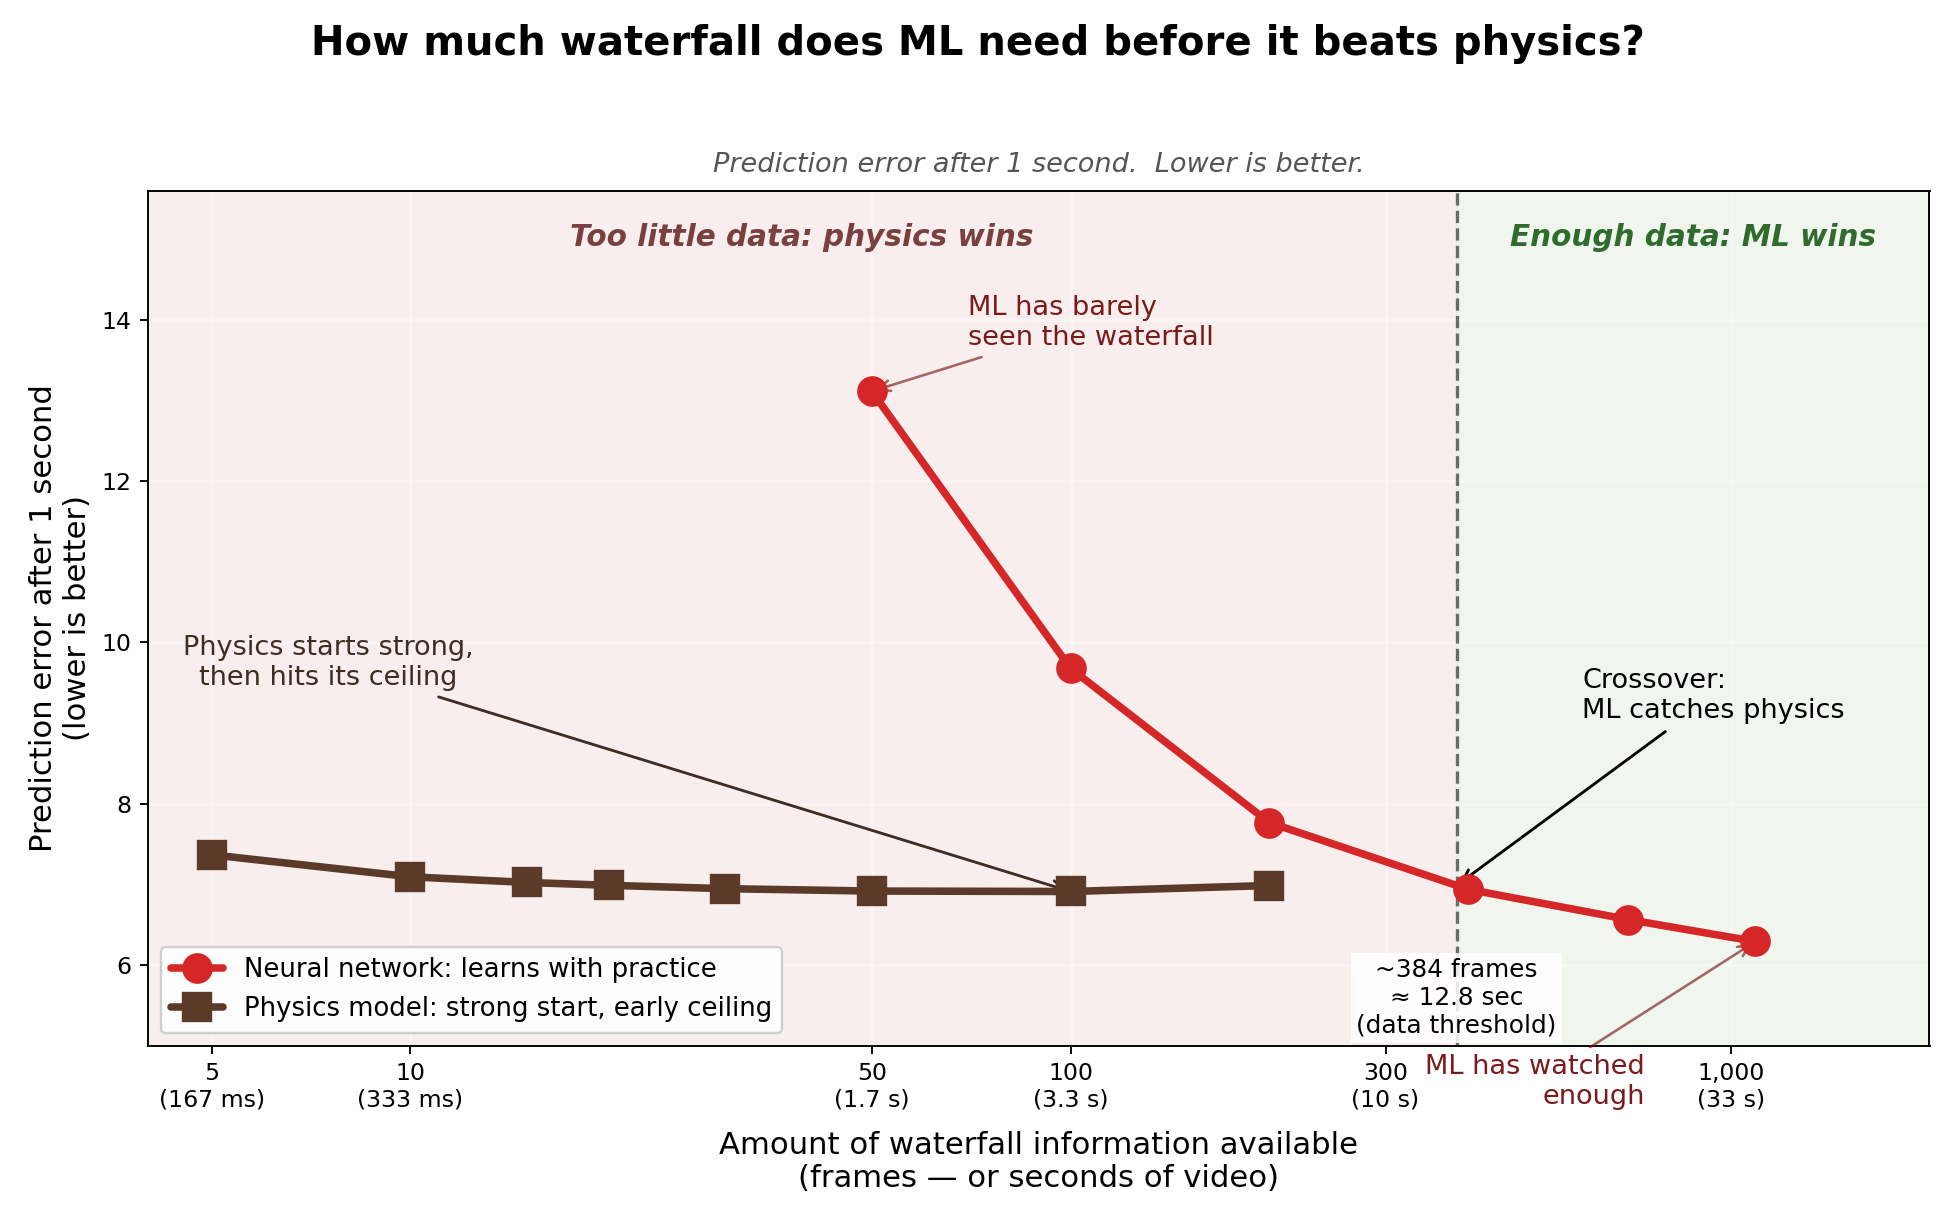
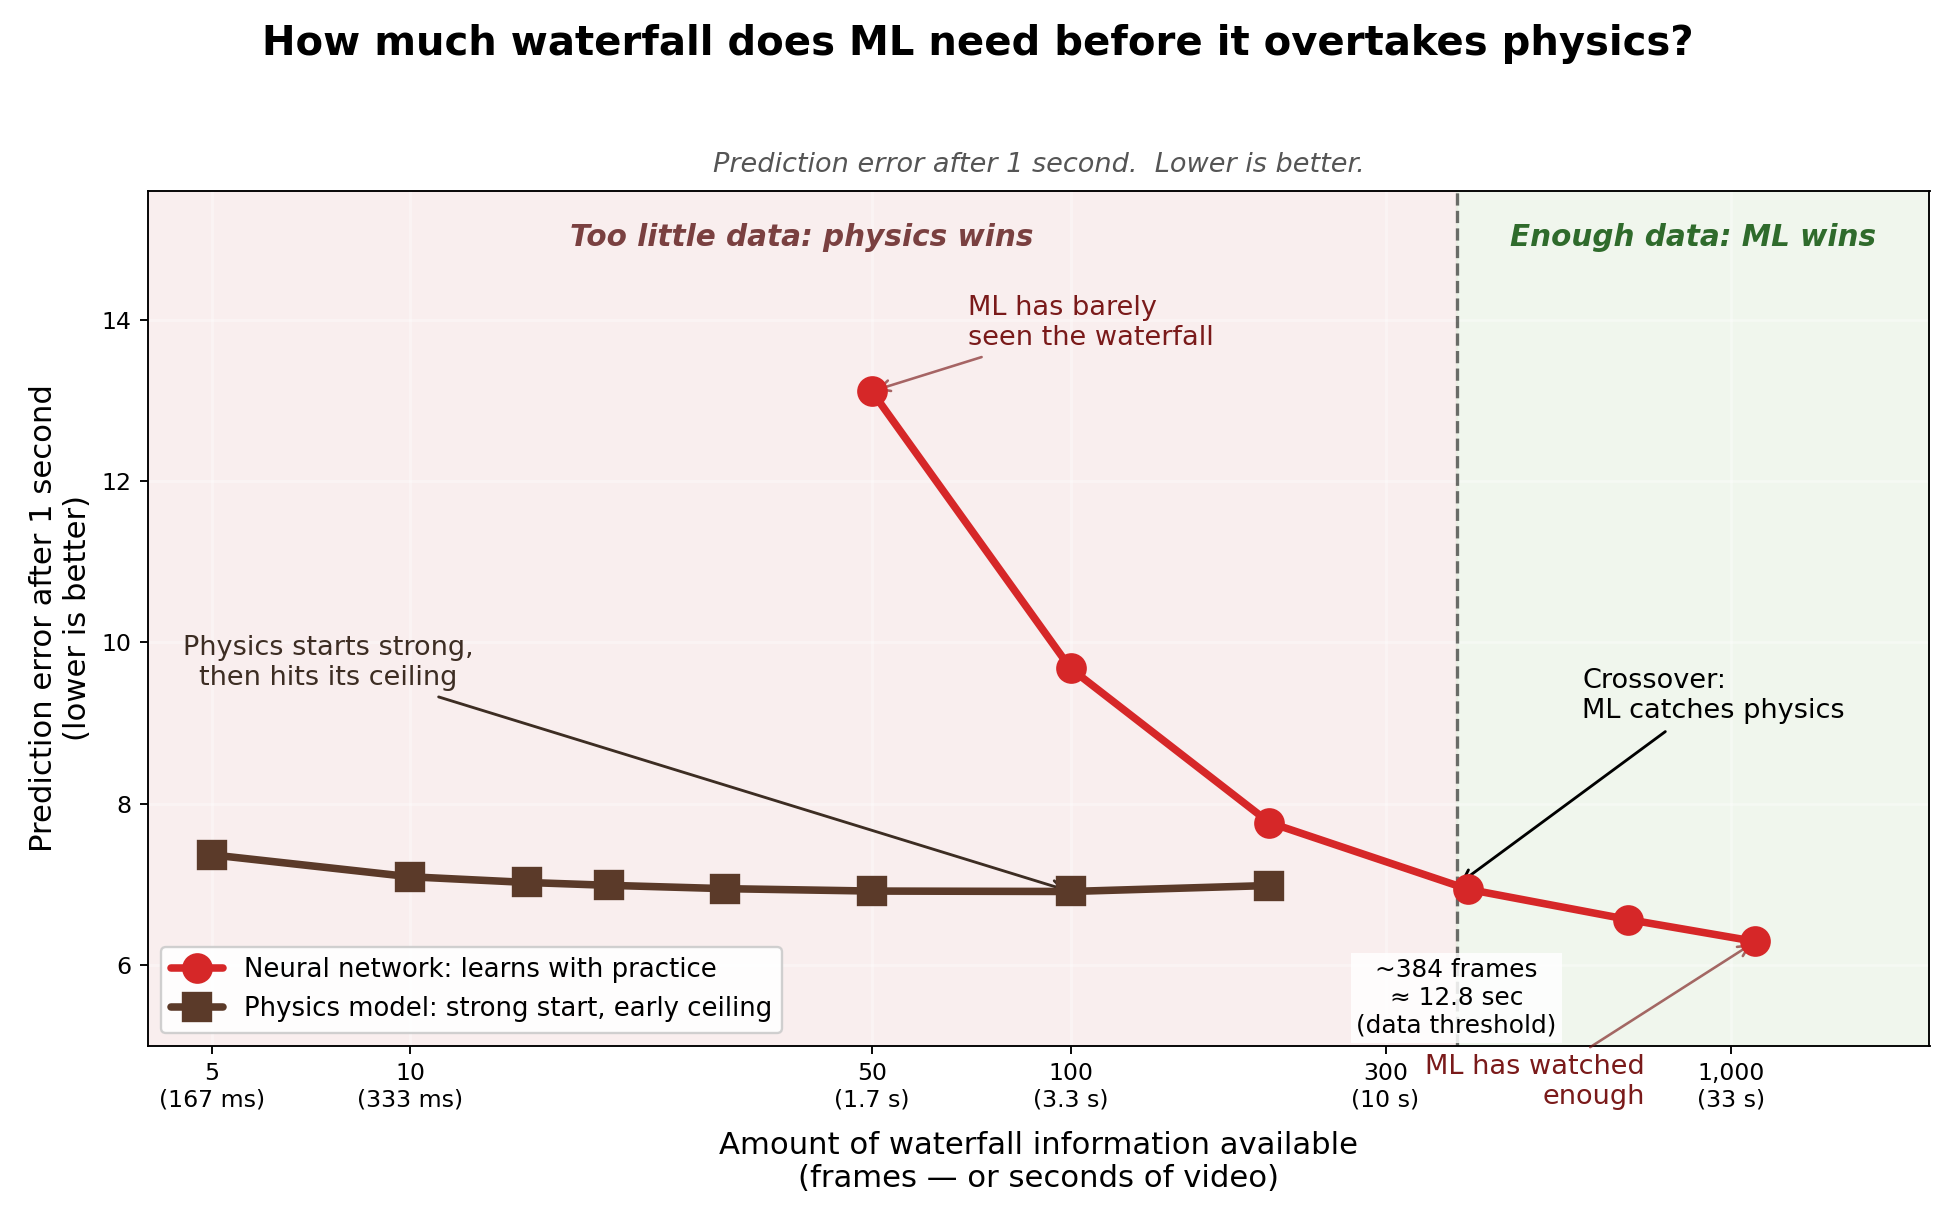
Rephrase 'beat physics' -> 'overtake physics' across text + OG card + data-scaling figure

Changed region(s): [[0.1248, 0.0, 0.8737, 0.0621]]

diff --git a/_posts/2026-06-08-yosemite-waterfall-ml-vs-4dvar.md b/_posts/2026-06-08-yosemite-waterfall-ml-vs-4dvar.md
@@ -1,10 +1,10 @@
 ---
 layout: post
-title: "Yosemite, a waterfall, a neural network, and the data threshold where ML beats physics"
+title: "Yosemite, a waterfall, a neural network, and the data threshold where ML overtakes physics"
 date: 2026-06-08
 tags: [machine-learning, fluid-dynamics, NWP, waterfall]
 image: /assets/figures/og_card.png
-excerpt: "How much waterfall does a neural network need to see before it beats a physics-based forecast?  A toy experiment on a 60-second Bridalveil Falls clip."
+excerpt: "How much waterfall does a neural network need to see before it overtakes a physics-based forecast?  A toy experiment on a 60-second Bridalveil Falls clip."
 ---
 
 ![Yosemite Valley with Bridalveil Falls]({{ "/assets/figures/hero_yosemite_valley.jpg" | relative_url }})
@@ -32,9 +32,9 @@ forecasts, but they do so after learning from enormous archives of past
 weather. My waterfall experiment asks the same question at toy scale:
 **how much data does ML need before it overtakes physics?**
 
-A few weekends of GPU time later, I have an answer. It is not "AI beats
-physics" — it is a **crossover**. Physics wins when data are scarce. ML
-wins once it has watched enough examples.
+A few weekends of GPU time later, I have an answer. It is not "AI overtakes
+physics" once and for all — it is a **crossover**. Physics wins when data
+are scarce. ML wins once it has watched enough examples.
 
 ![Bridalveil Falls with the analysis region boxed]({{ "/assets/figures/figure2_waterfall_video.gif" | relative_url }})
 
@@ -82,7 +82,7 @@ I retrained the neural network on different fractions of the clip — 50
 frames, 100, 200, 400, 700, or all 1,090 — and re-ran the same forecast
 against the same physics model. This is what came out:
 
-![How much waterfall does ML need before it beats physics]({{ "/assets/figures/headline_playful.png" | relative_url }})
+![How much waterfall does ML need before it overtakes physics]({{ "/assets/figures/headline_playful.png" | relative_url }})
 
 *The data threshold. With 50 frames the neural network is much worse than
 the physics model. Around a few hundred frames — roughly 10 seconds of
@@ -110,7 +110,7 @@ That is why the training archive matters. ML weather models like
 forecasts — but only after training on decades of
 [ERA5 reanalysis](https://www.ecmwf.int/en/forecasts/dataset/ecmwf-reanalysis-v5).
 That archive is their version of the *300 frames of waterfall*. When an
-ML weather model beats a physics-based forecast, the useful question is
+ML weather model overtakes a physics-based forecast, the useful question is
 not only "which model won?" — it is also: **how much data did the ML
 model need before it crossed over?**
 
@@ -151,7 +151,7 @@ model need before it crossed over?**
 
 ## Takeaway
 
-The lesson is not that ML magically beats physics. The lesson is that the
+The lesson is not that ML magically overtakes physics. The lesson is that the
 winner depends on the data regime. With too little waterfall, the physics
 baseline wins because it starts with a useful prior. With enough waterfall,
 the neural network wins because it learns the messy structure that the
